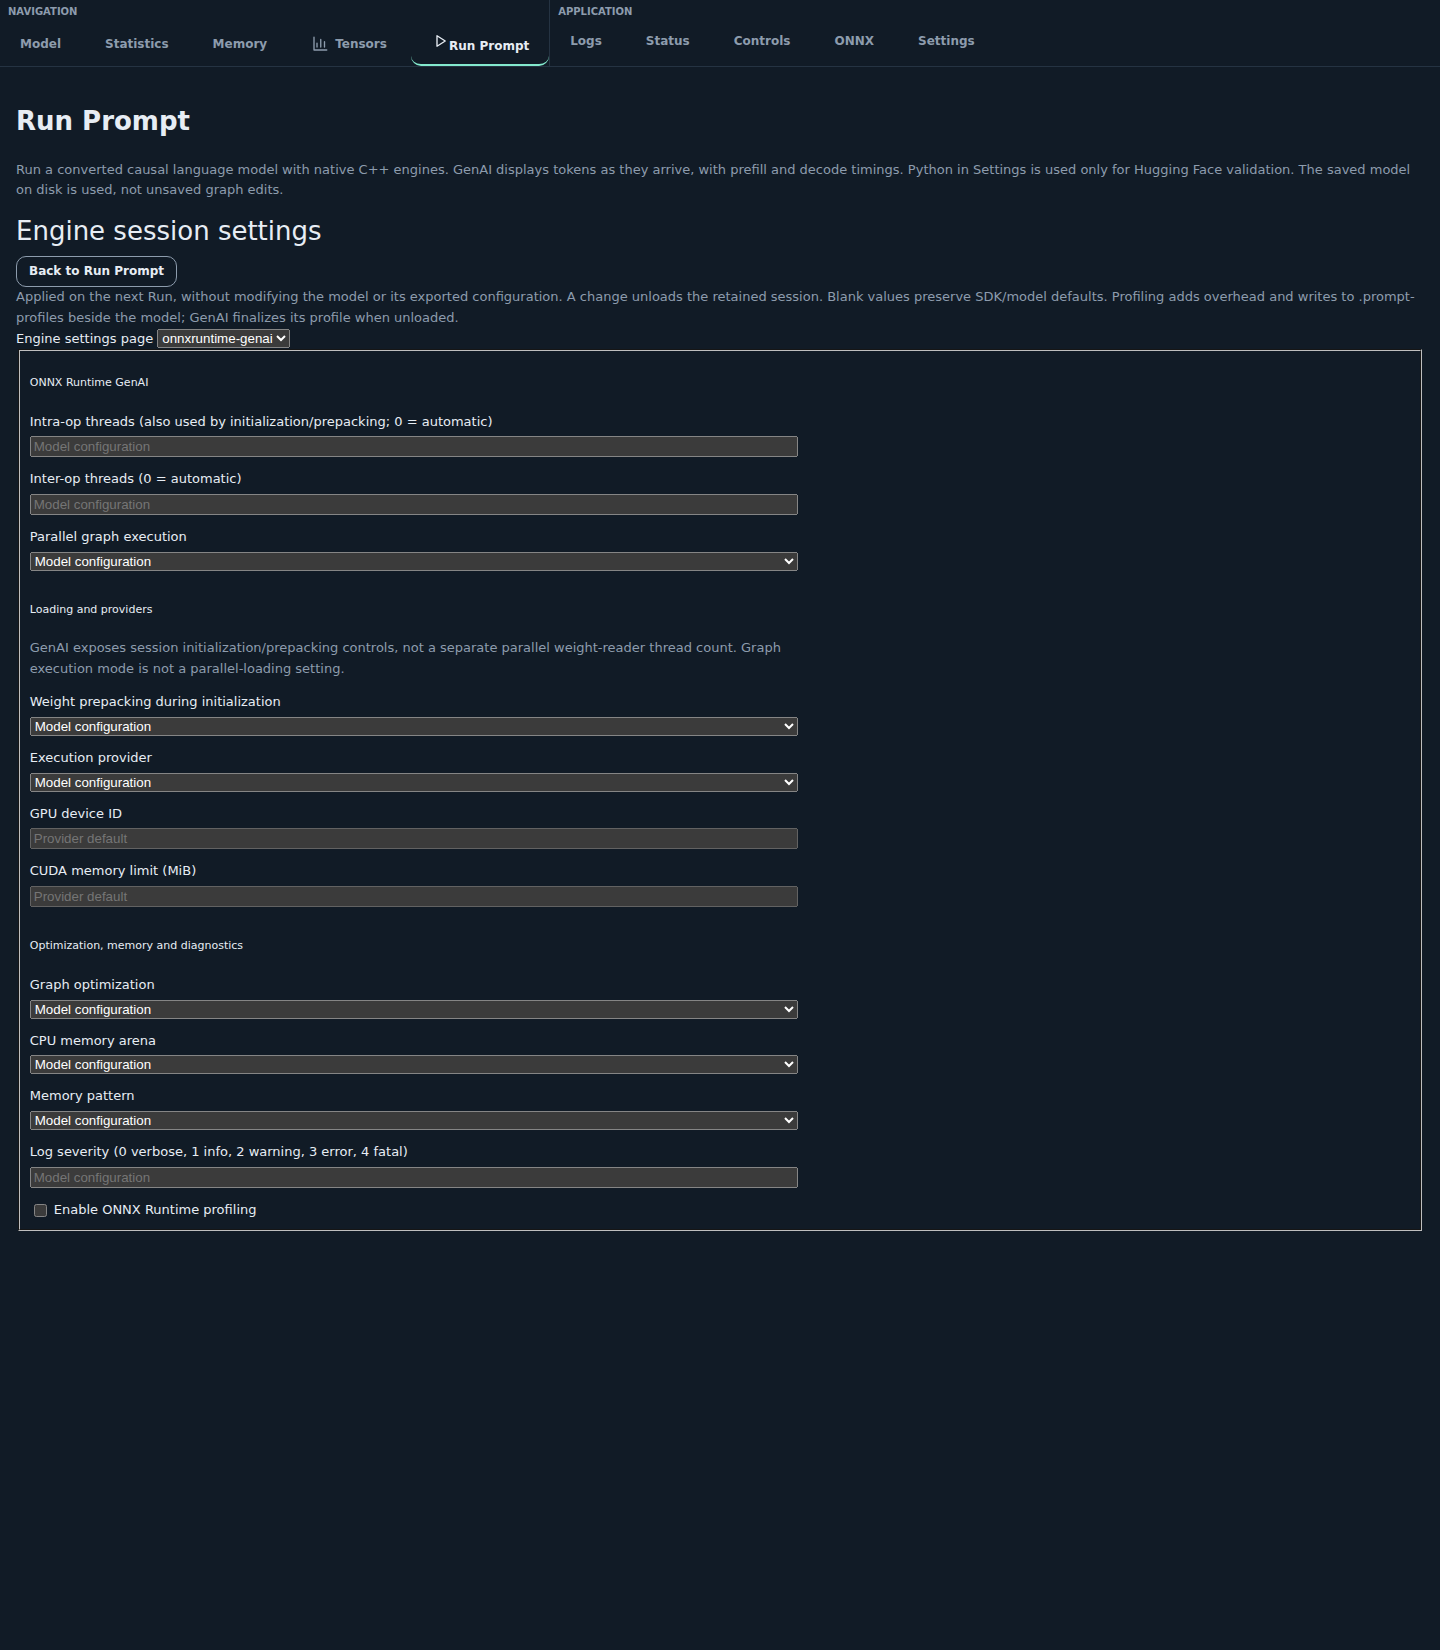
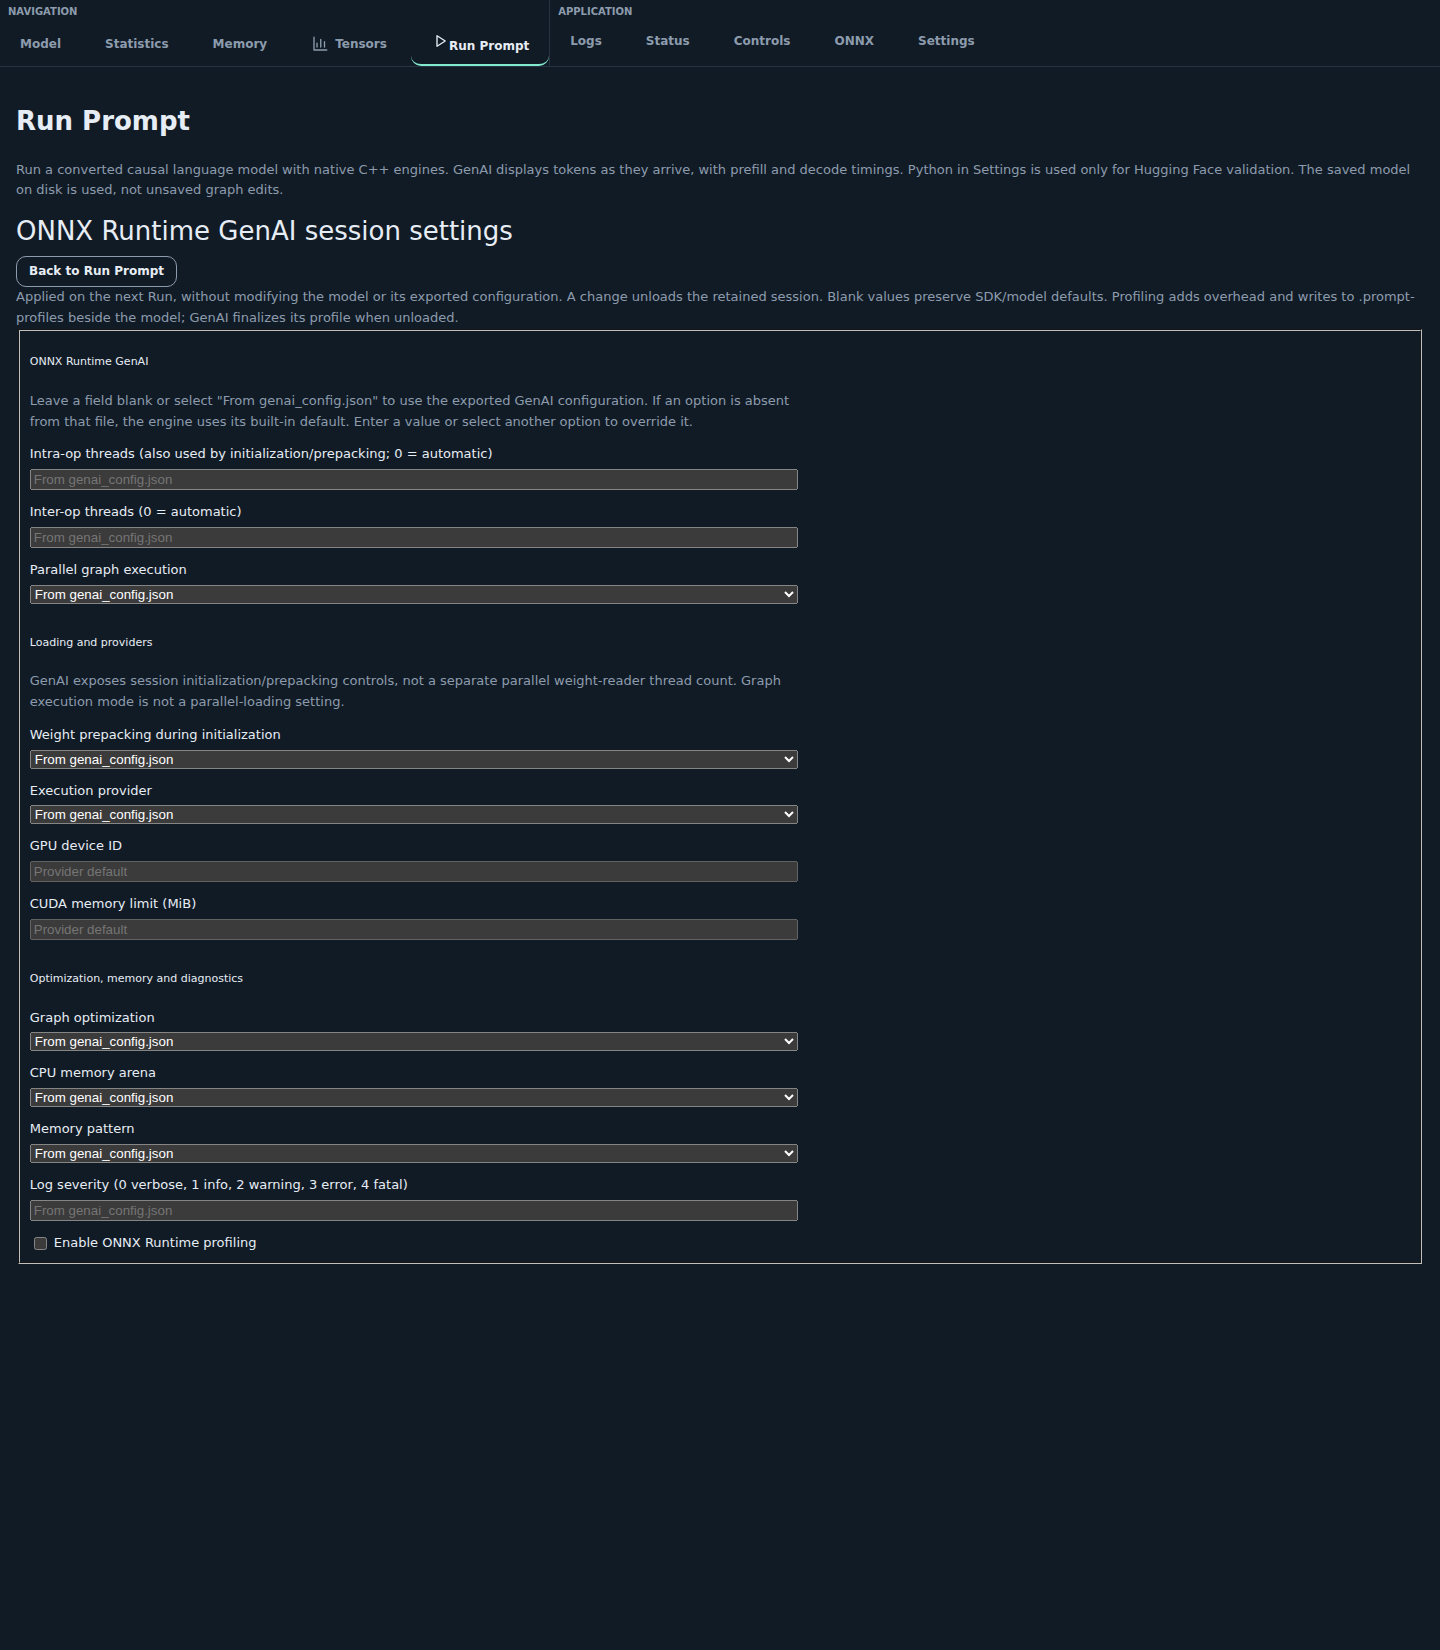
Scope prompt settings to the selected engine
Remove the independent settings-engine selector, resynchronize settings on model replacement, and clarify exported GenAI defaults and pipeline-only loading limitations. Cover active-engine navigation and editable pipeline settings with UI regressions.

Changed region(s): [[0.0, 0.1855, 0.5625, 0.7727], [0.0, 0.1236, 0.3438, 0.1545]]

diff --git a/src/webview.ts b/src/webview.ts
@@ -549,21 +549,19 @@ export function webviewHtml(
       <p>Validation compares full vocabulary logits using the same generated token prefixes. Counts are absolute differences below each threshold; smaller distances are better.</p>
       </div>
       <div id="prompt-session-page" hidden>
-        <h2>Engine session settings</h2>
+        <h2 id="prompt-settings-title">Engine session settings</h2>
         <button id="prompt-settings-back" type="button">Back to Run Prompt</button>
         <p>Applied on the next Run, without modifying the model or its exported configuration. A change unloads the retained session. Blank values preserve SDK/model defaults. Profiling adds overhead and writes to .prompt-profiles beside the model; GenAI finalizes its profile when unloaded.</p>
-        <label for="prompt-settings-engine">Engine settings page</label>
-        <select id="prompt-settings-engine"><option value="onnx-light">onnx-light</option><option value="onnxruntime-genai">onnxruntime-genai</option></select>
         <fieldset id="prompt-session-fields">
           <div id="prompt-settings-light" class="prompt-settings-grid">
             <h3>onnx-light (CPU)</h3>
             <p>CPU kernels only. Automatic graph optimization is not exposed by Generate; use Optimize separately. The SDK recreates internal generation sessions, but reuses the loaded model, context and supported static preparations.</p>
             <label>CPU threads (inference and loading preparation; 0 = automatic)<input data-setting="threads" type="number" min="0" max="4096" placeholder="SDK default"></label>
+            <p id="prompt-pipeline-loading" hidden>For PipelineProto, CPU, memory and diagnostic settings remain available. Only the SDK owning-loader controls below are unavailable: that loader accepts ONNX ModelProto, not pipelines.</p>
             <h3>Parallel loading</h3>
             <label>Model loader<select data-setting="sdkLoader" data-boolean data-loading><option value="">Standard ONNX loading</option><option value="true">SDK owning loader (parallel preparation)</option></select></label>
             <p>The SDK overlaps one I/O worker with preparation on the CPU executor. CPU threads above also control parallel preparation; there is no separate I/O thread-count option.</p>
             <p>The SDK owning loader currently requires explicit external-data lengths. Standard loading supports ONNX files without them; there is no automatic fallback.</p>
-            <p id="prompt-pipeline-loading" hidden>PipelineProto has no SDK parallel loader; the loading controls below are unavailable for pipelines.</p>
             <label>Overlap reads and preparation<select data-setting="loadOverlap" data-boolean data-loading data-sdk-loader disabled><option value="">SDK default (enabled)</option><option value="true">Enabled</option><option value="false">Disabled (sequential)</option></select></label>
             <label>Loading admission memory limit (MiB; 0 = unlimited, not process RSS)<input data-setting="loadMemoryMiB" data-loading data-sdk-loader type="number" min="0" max="1048576" placeholder="SDK default" disabled></label>
             <h3>Memory and diagnostics</h3>
@@ -575,20 +573,21 @@ export function webviewHtml(
           </div>
           <div id="prompt-settings-genai" class="prompt-settings-grid" hidden>
             <h3>ONNX Runtime GenAI</h3>
-            <label>Intra-op threads (also used by initialization/prepacking; 0 = automatic)<input data-setting="intraOpThreads" type="number" min="0" max="4096" placeholder="Model configuration"></label>
-            <label>Inter-op threads (0 = automatic)<input data-setting="interOpThreads" type="number" min="0" max="4096" placeholder="Model configuration"></label>
-            <label>Parallel graph execution<select data-setting="parallelExecution" data-boolean><option value="">Model configuration</option><option value="true">Parallel</option><option value="false">Sequential</option></select></label>
+            <p>Leave a field blank or select "From genai_config.json" to use the exported GenAI configuration. If an option is absent from that file, the engine uses its built-in default. Enter a value or select another option to override it.</p>
+            <label>Intra-op threads (also used by initialization/prepacking; 0 = automatic)<input data-setting="intraOpThreads" type="number" min="0" max="4096" placeholder="From genai_config.json"></label>
+            <label>Inter-op threads (0 = automatic)<input data-setting="interOpThreads" type="number" min="0" max="4096" placeholder="From genai_config.json"></label>
+            <label>Parallel graph execution<select data-setting="parallelExecution" data-boolean><option value="">From genai_config.json</option><option value="true">Parallel</option><option value="false">Sequential</option></select></label>
             <h3>Loading and providers</h3>
             <p>GenAI exposes session initialization/prepacking controls, not a separate parallel weight-reader thread count. Graph execution mode is not a parallel-loading setting.</p>
-            <label>Weight prepacking during initialization<select data-setting="prepacking" data-boolean><option value="">Model configuration</option><option value="true">Enabled</option><option value="false">Disabled</option></select></label>
-            <label>Execution provider<select data-setting="provider"><option value="">Model configuration</option><option value="cpu">CPU</option><option value="cuda">CUDA</option><option value="dml">DirectML</option></select></label>
+            <label>Weight prepacking during initialization<select data-setting="prepacking" data-boolean><option value="">From genai_config.json</option><option value="true">Enabled</option><option value="false">Disabled</option></select></label>
+            <label>Execution provider<select data-setting="provider"><option value="">From genai_config.json</option><option value="cpu">CPU</option><option value="cuda">CUDA</option><option value="dml">DirectML</option></select></label>
             <label>GPU device ID<input data-setting="deviceId" data-gpu type="number" min="0" max="65535" placeholder="Provider default" disabled></label>
             <label>CUDA memory limit (MiB)<input data-setting="gpuMemoryMiB" data-cuda type="number" min="1" max="1048576" placeholder="Provider default" disabled></label>
             <h3>Optimization, memory and diagnostics</h3>
-            <label>Graph optimization<select data-setting="graphOptimization"><option value="">Model configuration</option><option>ORT_DISABLE_ALL</option><option>ORT_ENABLE_BASIC</option><option>ORT_ENABLE_EXTENDED</option><option>ORT_ENABLE_ALL</option></select></label>
-            <label>CPU memory arena<select data-setting="cpuArena" data-boolean><option value="">Model configuration</option><option value="true">Enabled</option><option value="false">Disabled</option></select></label>
-            <label>Memory pattern<select data-setting="memoryPattern" data-boolean><option value="">Model configuration</option><option value="true">Enabled</option><option value="false">Disabled</option></select></label>
-            <label>Log severity (0 verbose, 1 info, 2 warning, 3 error, 4 fatal)<input data-setting="logSeverity" type="number" min="0" max="4" placeholder="Model configuration"></label>
+            <label>Graph optimization<select data-setting="graphOptimization"><option value="">From genai_config.json</option><option>ORT_DISABLE_ALL</option><option>ORT_ENABLE_BASIC</option><option>ORT_ENABLE_EXTENDED</option><option>ORT_ENABLE_ALL</option></select></label>
+            <label>CPU memory arena<select data-setting="cpuArena" data-boolean><option value="">From genai_config.json</option><option value="true">Enabled</option><option value="false">Disabled</option></select></label>
+            <label>Memory pattern<select data-setting="memoryPattern" data-boolean><option value="">From genai_config.json</option><option value="true">Enabled</option><option value="false">Disabled</option></select></label>
+            <label>Log severity (0 verbose, 1 info, 2 warning, 3 error, 4 fatal)<input data-setting="logSeverity" type="number" min="0" max="4" placeholder="From genai_config.json"></label>
             <label class="prompt-checkbox"><input data-setting="profile" type="checkbox"> Enable ONNX Runtime profiling</label>
           </div>
         </fieldset>

diff --git a/media/prompt-panel.js b/media/prompt-panel.js
@@ -21,16 +21,15 @@ function createPromptPanel({ byId, postMessage }) {
   const progress = byId("prompt-progress");
   const lifecycleStatus = byId("prompt-lifecycle");
   const sessionFields = byId("prompt-session-fields");
-  const settingsEngine = byId("prompt-settings-engine");
   const showSettingsEngine = () => {
-    byId("prompt-settings-light").hidden =
-      settingsEngine.value !== "onnx-light";
-    byId("prompt-settings-genai").hidden =
-      settingsEngine.value !== "onnxruntime-genai";
+    const light = byId("prompt-engine").value === "onnx-light";
+    byId("prompt-settings-light").hidden = !light;
+    byId("prompt-settings-genai").hidden = light;
+    byId("prompt-settings-title").textContent = light
+      ? "onnx-light session settings"
+      : "ONNX Runtime GenAI session settings";
   };
-  settingsEngine.addEventListener("change", showSettingsEngine);
   byId("prompt-settings-open").addEventListener("click", () => {
-    settingsEngine.value = byId("prompt-engine").value;
     showSettingsEngine();
     byId("prompt-run-page").hidden = true;
     byId("prompt-session-page").hidden = false;
@@ -73,7 +72,6 @@ function createPromptPanel({ byId, postMessage }) {
       if (field.disabled || (field.value === "" && field.type !== "checkbox"))
         continue;
       if (!field.checkValidity()) {
-        settingsEngine.value = byId("prompt-engine").value;
         showSettingsEngine();
         byId("prompt-run-page").hidden = true;
         byId("prompt-session-page").hidden = false;
@@ -324,6 +322,7 @@ function createPromptPanel({ byId, postMessage }) {
         for (const option of engine.options)
           option.disabled = !message.info.engines.includes(option.value);
         engine.value = message.info.engines[0] ?? "onnx-light";
+        showSettingsEngine();
         pipeline = !!message.info.pipeline;
         const light = byId("prompt-settings-light");
         const sdkLoader =

diff --git a/docs/features.rst b/docs/features.rst
@@ -151,8 +151,10 @@ now**, cancellation, changing models/engines/settings and closing the panel
 release it. One panel retains at most one native model; keeping it during HF
 validation can hold two models in memory.
 
-Open **Session settings** for a separate page per engine. Controls preserve
-SDK/model defaults unless changed and never edit the exported configuration.
+Select the engine on **Run Prompt**, then open **Session settings** to configure
+that engine only. Controls preserve defaults unless changed and never edit the
+exported configuration. GenAI's **From genai_config.json** uses the exported
+configuration, or the engine default when the option is absent from that file.
 onnx-light exposes CPU threads, shape checks, allocation capacity, intermediate
 release, logging and native kernel profiles. GenAI exposes CPU threads,
 CPU/CUDA/DirectML providers and GPU limits, graph optimization, memory options,
@@ -167,6 +169,8 @@ currently requires explicit external-data lengths
 (`xadupre/onnx-light#5697 <https://github.com/xadupre/onnx-light/issues/5697>`_)
 and does not accept pipelines
 (`xadupre/onnx-light#5698 <https://github.com/xadupre/onnx-light/issues/5698>`_).
+Only these loading controls are disabled for pipelines; CPU, memory and diagnostic
+settings remain editable.
 GenAI exposes initialization/prepacking and session-thread controls, not a
 separate parallel weight-reader thread count. Parallel graph execution is not
 parallel loading. Profiles add overhead and are written under
